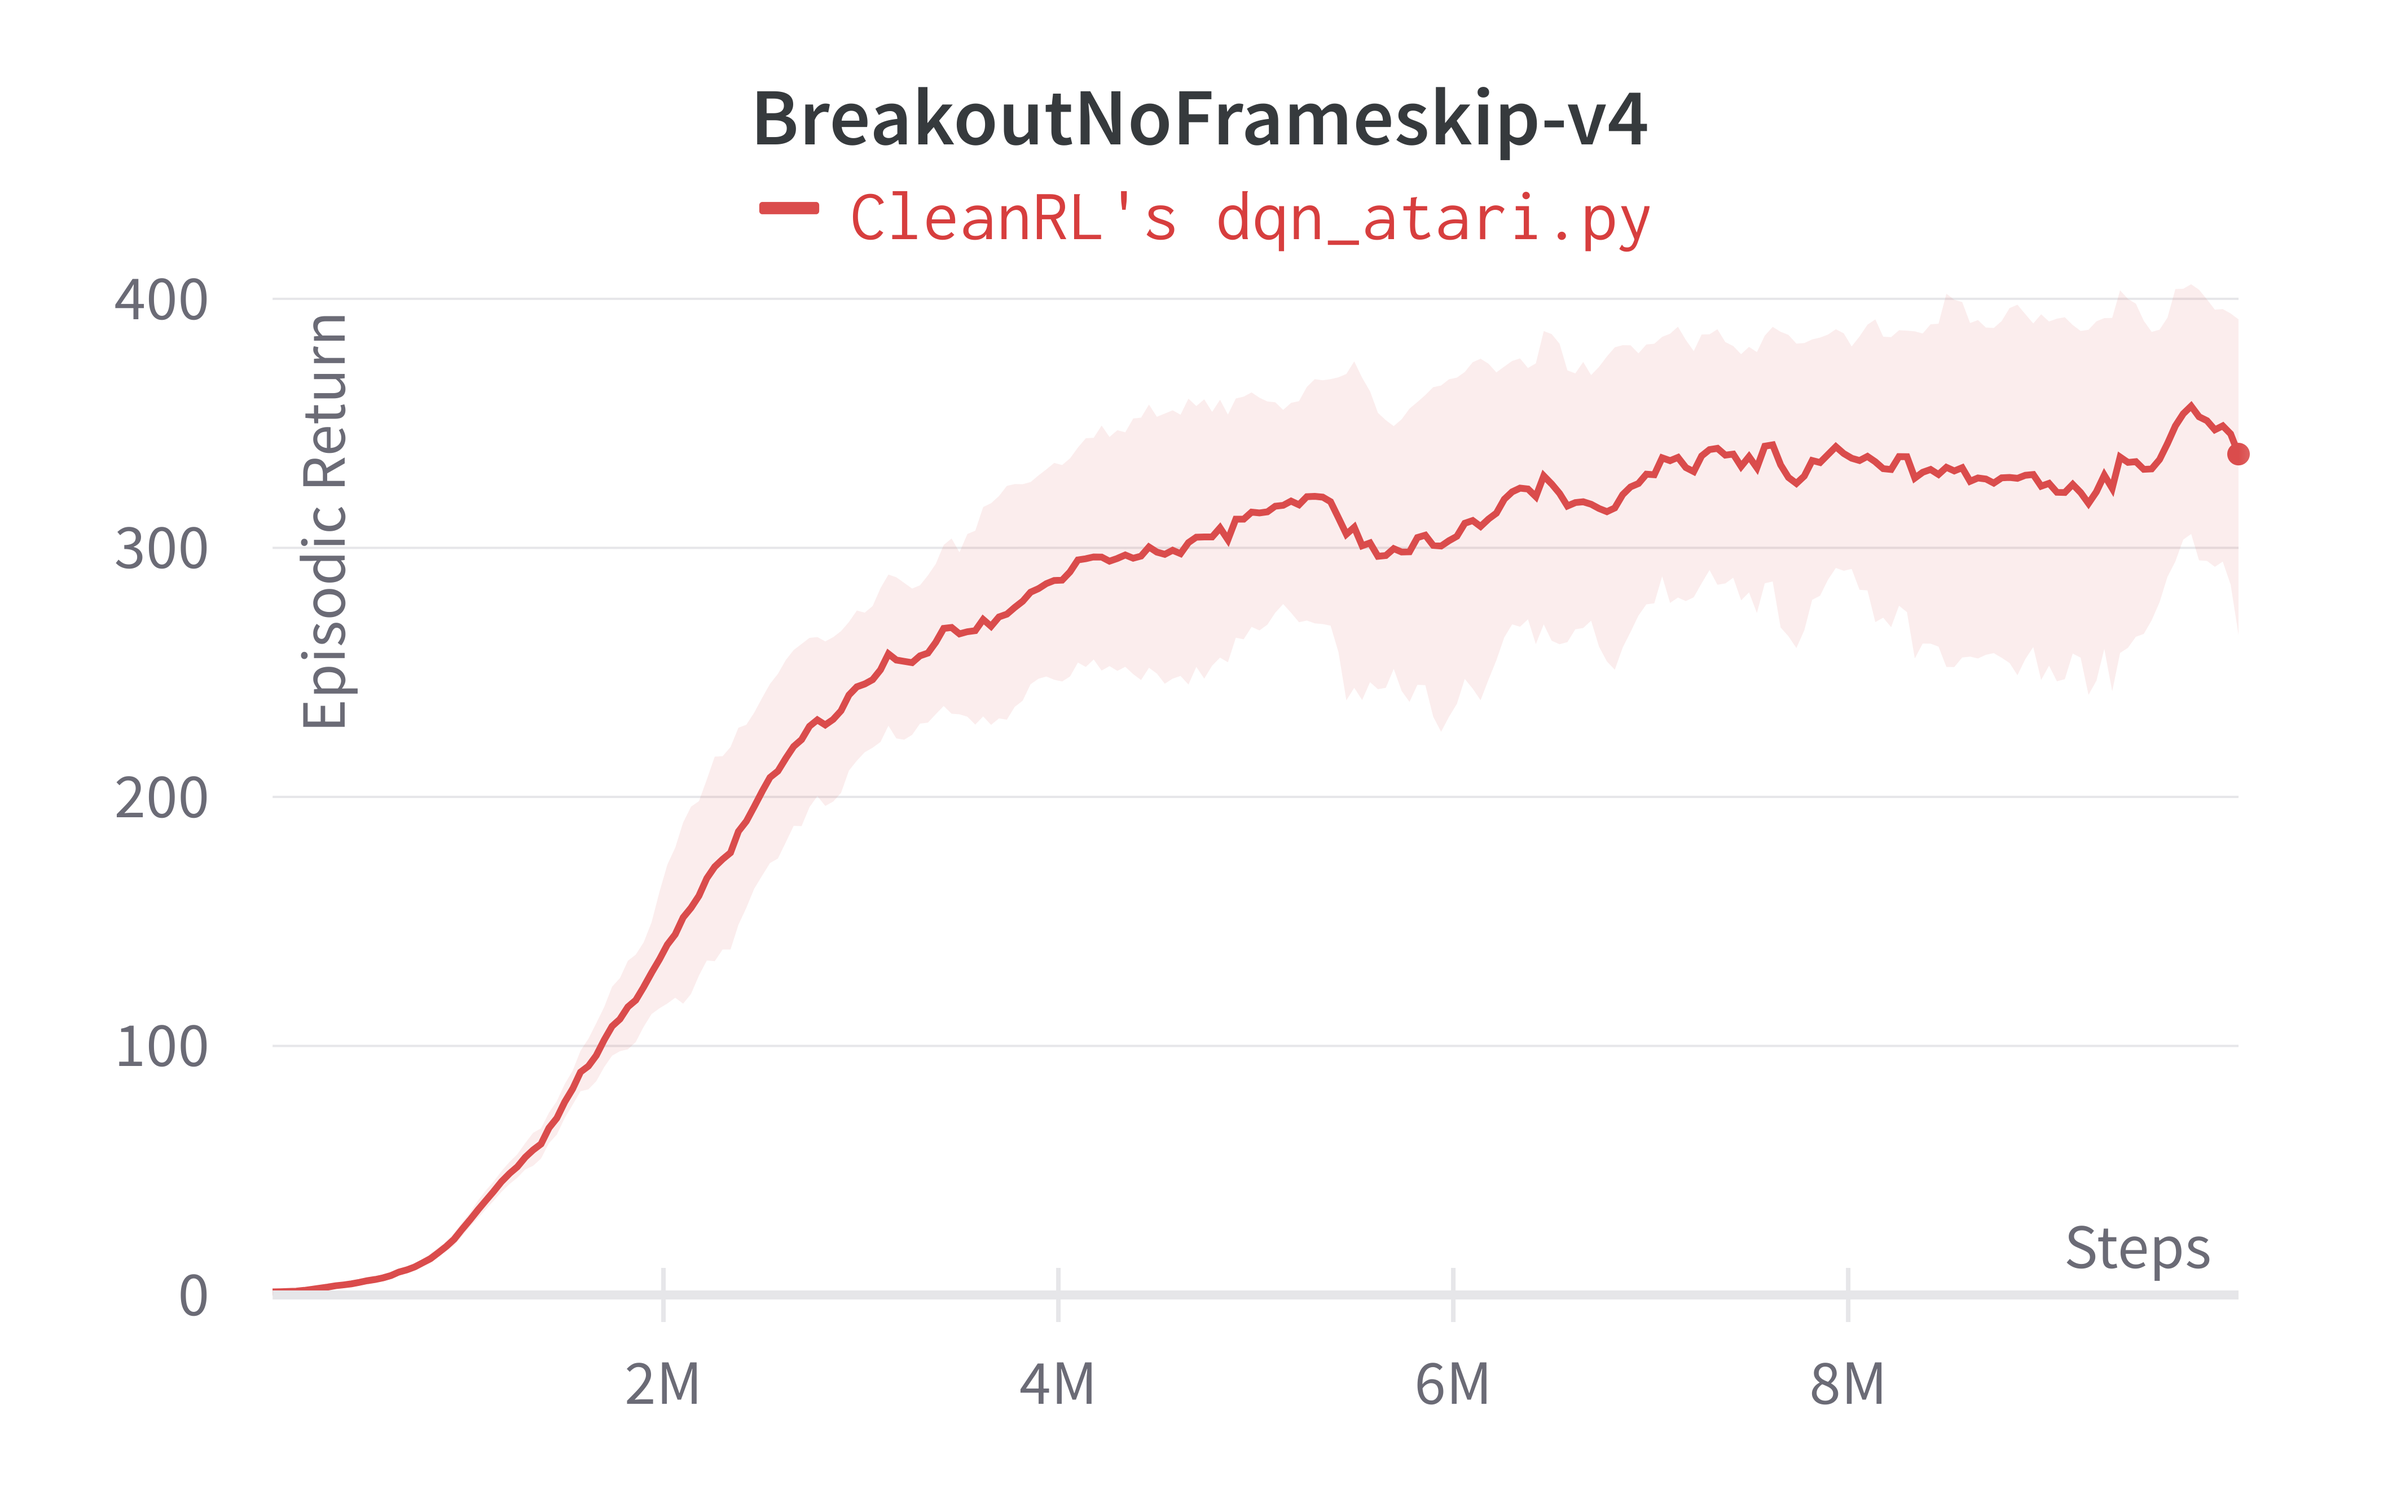
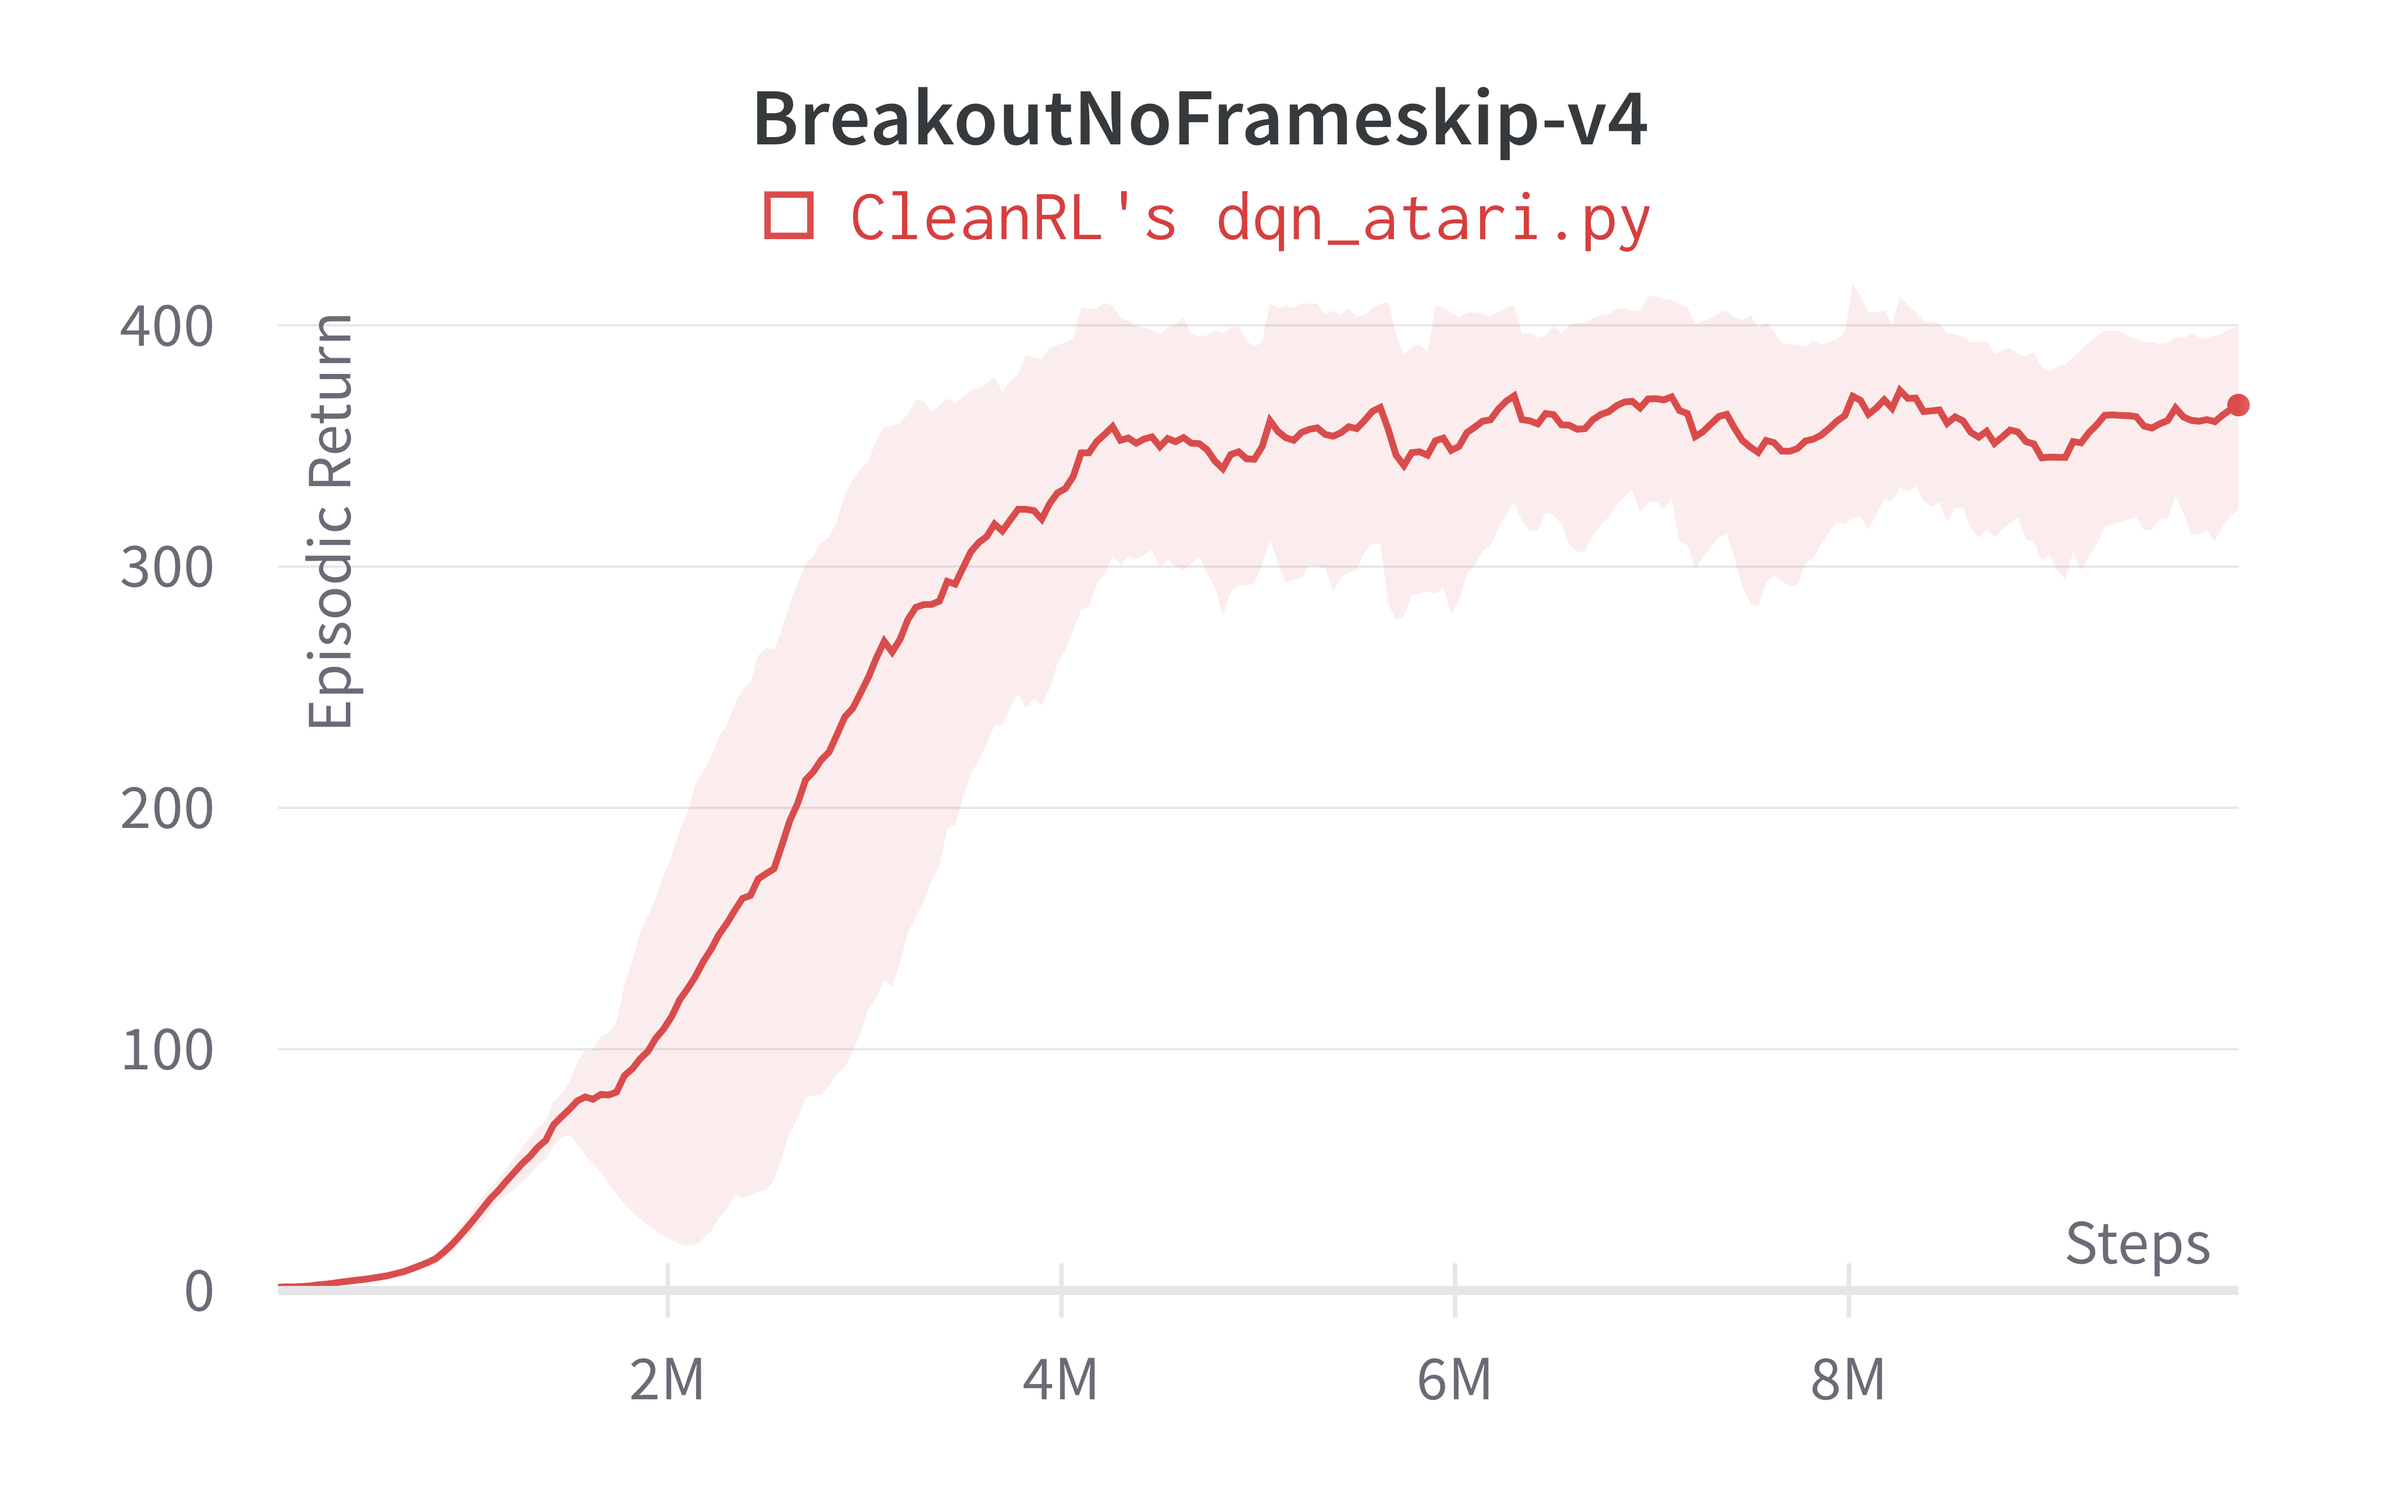
update documentation

diff --git a/docs/rl-algorithms/dqn.md b/docs/rl-algorithms/dqn.md
@@ -92,9 +92,9 @@ Below are the average episodic returns for `dqn_atari.py`.
 
 | Environment      | `dqn_atari.py` 10M steps | (Mnih et al., 2015)[^1] 50M steps | (Hessel et al., 2017, Figure 5)[^3] 
 | ----------- | ----------- | ----------- | ---- |
-| BreakoutNoFrameskip-v4      | 337.64 ± 69.47      |401.2 ± 26.9  | ~230 at 10M steps, ~300 at 50M steps
-| PongNoFrameskip-v4  | 20.293 ± 0.37     |  18.9 ± 1.3 |  ~20 10M steps, ~20 at 50M steps 
-| BeamRiderNoFrameskip-v4   | 6207.41 ± 1019.96        | 6846 ± 1619 | ~6000 10M steps, ~7000 at 50M steps 
+| BreakoutNoFrameskip-v4      | 366.928 ± 39.89      |401.2 ± 26.9  | ~230 at 10M steps, ~300 at 50M steps
+| PongNoFrameskip-v4  | 20.25 ± 0.41     |  18.9 ± 1.3 |  ~20 10M steps, ~20 at 50M steps 
+| BeamRiderNoFrameskip-v4   | 6673.24 ± 1434.37        | 6846 ± 1619 | ~6000 10M steps, ~7000 at 50M steps 
 
 
 Note that we save computational time by reducing timesteps from 50M to 10M, but our `dqn_atari.py` scores the same or higher than (Mnih et al., 2015)[^1] in 10M steps.
@@ -179,9 +179,9 @@ Below are the average episodic returns for `dqn.py`.
 
 | Environment      | `dqn.py`  | 
 | ----------- | ----------- | 
-| CartPole-v1      | 471.21 ± 43.45      |
-| Acrobot-v1  | -93.37 ± 8.46     | 
-| MountainCar-v0   | -170.51 ± 26.22        | 
+| CartPole-v1      | 488.69 ± 16.11      |
+| Acrobot-v1  | -91.54 ± 7.20     | 
+| MountainCar-v0   | -194.95 ± 8.48        | 
 
 
 Note that the DQN has no official benchmark on classic control environments, so we did not include a comparison. That said, our `dqn.py` was able to achieve near perfect scores in `CartPole-v1` and `Acrobot-v1`; further, it can obtain successful runs in the sparse environment `MountainCar-v0`.

diff --git a/docs/rl-algorithms/c51.md b/docs/rl-algorithms/c51.md
@@ -67,9 +67,9 @@ Below are the average episodic returns for `c51_atari.py`.
 
 | Environment      | `c51_atari.py` 10M steps | (Bellemare et al., 2017, Figure 14)[^1] 50M steps | (Hessel et al., 2017, Figure 5)[^3] 
 | ----------- | ----------- | ----------- | ---- |
-| BreakoutNoFrameskip-v4      | 467.00 ± 96.11      | 748  | ~500 at 10M steps, ~600 at 50M steps
-| PongNoFrameskip-v4  | 19.32 ± 0.92    |  20.9 |  ~20 10M steps, ~20 at 50M steps 
-| BeamRiderNoFrameskip-v4   | 9986.96 ± 1953.30        | 14,074 | ~12000 10M steps, ~14000 at 50M steps 
+| BreakoutNoFrameskip-v4      | 461.86 ± 69.65      | 748  | ~500 at 10M steps, ~600 at 50M steps
+| PongNoFrameskip-v4  | 19.46 ± 0.70    |  20.9 |  ~20 10M steps, ~20 at 50M steps 
+| BeamRiderNoFrameskip-v4   | 9592.90 ± 2270.15        | 14,074 | ~12000 10M steps, ~14000 at 50M steps 
 
 
 Note that we save computational time by reducing timesteps from 50M to 10M, but our `c51_atari.py` scores the same or higher than (Mnih et al., 2015)[^1] in 10M steps.
@@ -156,9 +156,9 @@ Below are the average episodic returns for `c51.py`.
 
 | Environment      | `c51.py`  | 
 | ----------- | ----------- | 
-| CartPole-v1      | 498.51 ± 1.77      |
-| Acrobot-v1  | -88.81 ± 8.86     | 
-| MountainCar-v0   | -167.71 ± 26.85        | 
+| CartPole-v1      | 481.20 ± 20.53      |
+| Acrobot-v1  | -87.70 ± 5.52     | 
+| MountainCar-v0   | -166.38 ± 27.94        | 
 
 
 Note that the C51 has no official benchmark on classic control environments, so we did not include a comparison. That said, our `c51.py` was able to achieve near perfect scores in `CartPole-v1` and `Acrobot-v1`; further, it can obtain successful runs in the sparse environment `MountainCar-v0`.

diff --git a/docs/rl-algorithms/sac.md b/docs/rl-algorithms/sac.md
@@ -197,9 +197,9 @@ The table below compares the results of CleanRL's [`sac_continuous_action.py`](h
 
 | Environment      | [`sac_continuous_action.py`](https://github.com/vwxyzjn/cleanrl/blob/master/cleanrl/sac_continuous_action.py) |[SAC: Algorithms and Applications](https://arxiv.org/abs/1812.05905) @ 1M steps|
 | --------------- | ------------------ | ---------------- |
-| HalfCheetah-v2  | 9,063 ± 1381       | ~11,250          |
-| Walker2d-v2     | 4554 ± 296         | ~4,800           |
-| Hopper-v2       | 2347 ± 538         | ~3,250           |
+| HalfCheetah-v2  | 10310.37 ± 1873.21       | ~11,250          |
+| Walker2d-v2     | 4418.15 ± 592.82         | ~4,800           |
+| Hopper-v2       | 2685.76 ± 762.16         | ~3,250           |
 
 
 ### Learning curves
@@ -212,17 +212,10 @@ The table below compares the results of CleanRL's [`sac_continuous_action.py`](h
 
 <div></div>
 
-<div class="grid-container">
-    <img src="../sac/HalfCheetahBulletEnv-v0.png">
-    <img src="../sac/Walker2DBulletEnv-v0.png">
-    <img src="../sac/HopperBulletEnv-v0.png">
-</div>
 
 ### Tracked experiments and gameplay videos
 
 <iframe src="https://wandb.ai/openrlbenchmark/openrlbenchmark/reports/MuJoCo-CleanRL-s-SAC--VmlldzoxNzI1NDM0" style="width:100%; height:1200px" title="MuJoCo: CleanRL's DDPG"></iframe>
 
-
-<iframe src="https://wandb.ai/openrlbenchmark/openrlbenchmark/reports/PyBullet-CleanRL-s-SAC--VmlldzoxNzI1NDQw" style="width:100%; height:1200px" title="PyBullet: CleanRL's DDPG"></iframe>
 
 [^1]:Diederik P Kingma, Max Welling (2016). Auto-Encoding Variational Bayes. ArXiv, abs/1312.6114. https://arxiv.org/abs/1312.6114

diff --git a/docs/rl-algorithms/ddpg.md b/docs/rl-algorithms/ddpg.md
@@ -169,9 +169,9 @@ Below are the average episodic returns for [`ddpg_continuous_action.py`](https:/
 
 | Environment      | [`ddpg_continuous_action.py`](https://github.com/vwxyzjn/cleanrl/blob/master/cleanrl/ddpg_continuous_action.py) | [`OurDDPG.py`](https://github.com/sfujim/TD3/blob/master/OurDDPG.py) (Fujimoto et al., 2018, Table 1)[^2]  | [`DDPG.py`](https://github.com/sfujim/TD3/blob/master/DDPG.py) using settings from (Lillicrap et al., 2016)[^1] in (Fujimoto et al., 2018, Table 1)[^2]    |
 | ----------- | ----------- | ----------- | ----------- |
-| HalfCheetah      | 9260.485 ± 643.088      |8577.29  | 3305.60|
-| Walker2d   | 1728.72 ± 758.33     |  3098.11 | 1843.85 |
-| Hopper   | 1404.44 ± 544.78         |  1860.02 | 2020.46 |
+| HalfCheetah      | 9382.32 ± 1395.52      |8577.29  | 3305.60|
+| Walker2d   | 1598.35 ± 862.66     |  3098.11 | 1843.85 |
+| Hopper   | 1313.43 ± 684.46         |  1860.02 | 2020.46 |
 
 
 

diff --git a/docs/rl-algorithms/td3.md b/docs/rl-algorithms/td3.md
@@ -76,9 +76,9 @@ Below are the average episodic returns for [`td3_continuous_action.py`](https://
 
 | Environment      | [`td3_continuous_action.py`](https://github.com/vwxyzjn/cleanrl/blob/master/cleanrl/td3_continuous_action.py) | [`TD3.py`](https://github.com/sfujim/TD3/blob/master/TD3.py) (Fujimoto et al., 2018, Table 1)[^2]  |
 | ----------- | ----------- | ----------- | 
-| HalfCheetah      | 9391.52 ± 448.54      |9636.95 ± 859.065  |
-| Walker2d   | 3895.80 ± 333.89     |  4682.82 ± 539.64 | 
-| Hopper   | 3379.25 ± 200.22         |  3564.07 ± 114.74 | 
+| HalfCheetah      | 9018.31 ± 1078.31      |9636.95 ± 859.065  |
+| Walker2d   | 4246.07 ± 1210.84     |  4682.82 ± 539.64 | 
+| Hopper   | 3391.78 ± 232.21        |  3564.07 ± 114.74 | 
 
 
 
